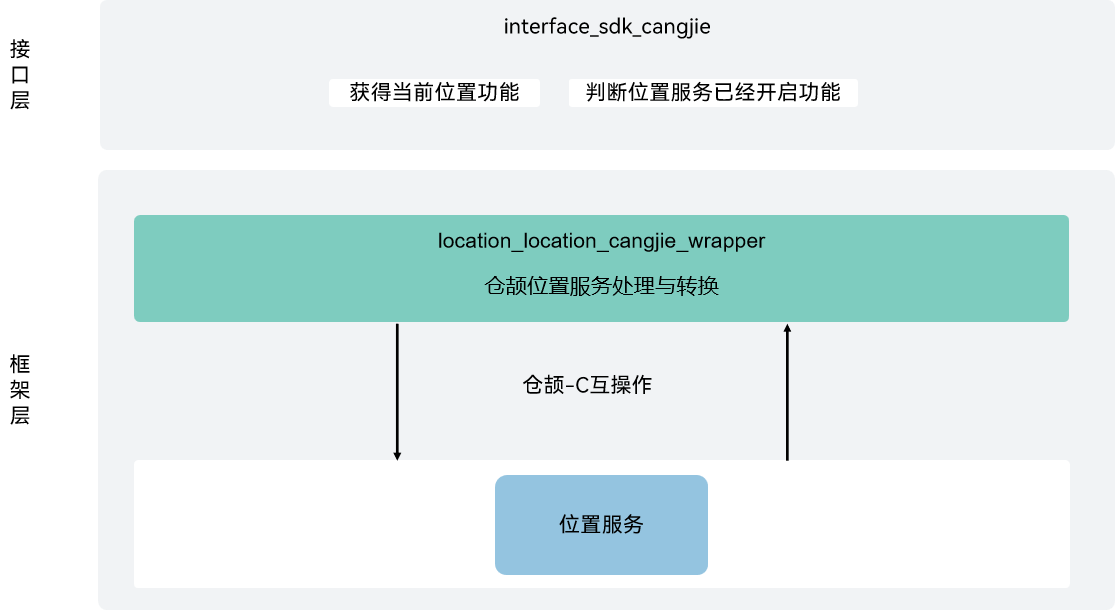
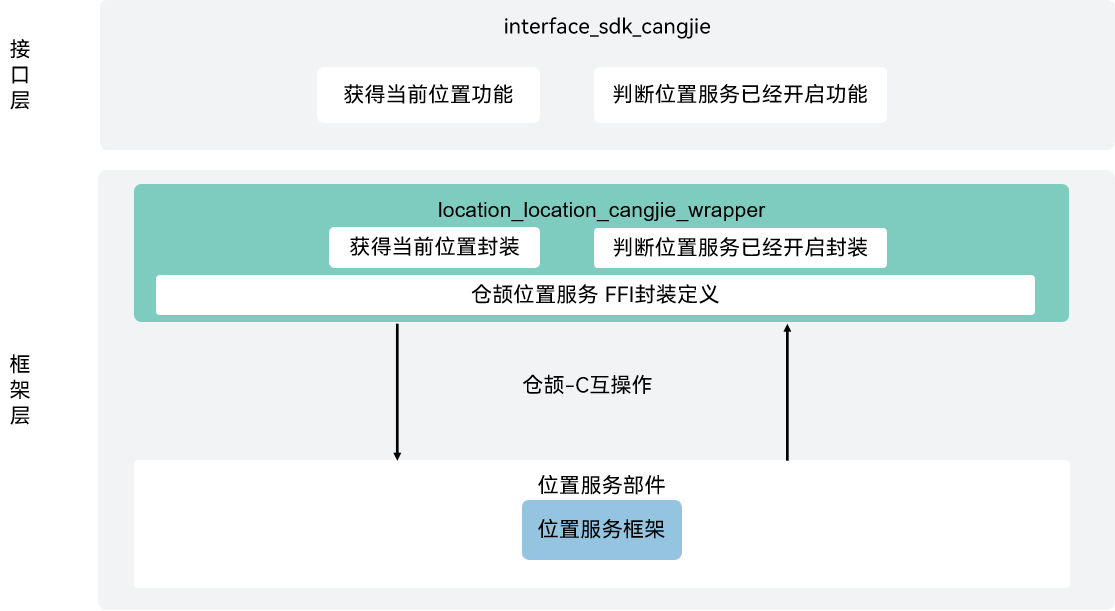
fix readme

diff --git a/README_zh.md b/README_zh.md
@@ -34,18 +34,22 @@
 
 ![](figures/location_cangjie_wrapper_architecture.png)
 
-位置服务仓颉接口当前由2个部分组成：
+如架构图所示：
 
-- 获取当前位置
-- 判断位置服务是否开启
+- 获取当前位置：提供获取当前位置的方法
+- 判断位置服务是否开启：提供判断位置服务是否开启的方法
+- 仓颉位置服务 FFI封装定义：负责定义C互操作仓颉接口，用于实现仓颉位置服务能力
+- 位置服务框架：负责提供位置服务基本功能，封装C接口提供给仓颉进行互操作
 
 ## 目录
 
 ```
 base/location/location_cangjie_wrapper
-├── ohos             # 仓颉位置服务接口实现
-├── kit              # 仓颉元能力kit化代码
-└── figures          # 存放README中的架构图
+├── figures          # 存放README中的架构图
+├── kit              # 仓颉位置服务kit化代码
+│   └── LocationKit
+└── ohos             # 仓颉位置服务接口实现
+    └── geo_location_manager
 ```
 
 ## 约束
@@ -57,24 +61,22 @@ base/location/location_cangjie_wrapper
 ## 使用说明
 
 提供了以下位置服务功能：
-
 - 获取当前位置功能
 - 判断位置服务是否已经打开功能
 
 与ArkTS相比，暂不支持以下功能：
-
-- 开启位置变化订阅，并发起定位请求。
-- 关闭位置变化订阅，并删除对应的定位请求。
-- 订阅位置服务状态变化。
-- 取消订阅位置服务状态变化。
-- 订阅缓存GNSS位置上报。
-- 取消订阅缓存GNSS位置上报。
-- 订阅卫星状态信息更新事件。
-- 取消订阅卫星状态信息更新事件。
-- 订阅GNSS NMEA信息上报。
-- 取消订阅GNSS NMEA信息上报。
-- 添加围栏，并订阅该围栏事件上报。
-- 删除围栏，并取消订阅该围栏事件。
+- 开启位置变化订阅，并发起定位请求
+- 关闭位置变化订阅，并删除对应的定位请求
+- 订阅位置服务状态变化
+- 取消订阅位置服务状态变化
+- 订阅缓存GNSS位置上报
+- 取消订阅缓存GNSS位置上报
+- 订阅卫星状态信息更新事件
+- 取消订阅卫星状态信息更新事件
+- 订阅GNSS NMEA信息上报
+- 取消订阅GNSS NMEA信息上报
+- 添加围栏，并订阅该围栏事件上报
+- 删除围栏，并取消订阅该围栏事件
 - 获取上一次位置
 - 请求打开位置服务
 - 打开位置服务
